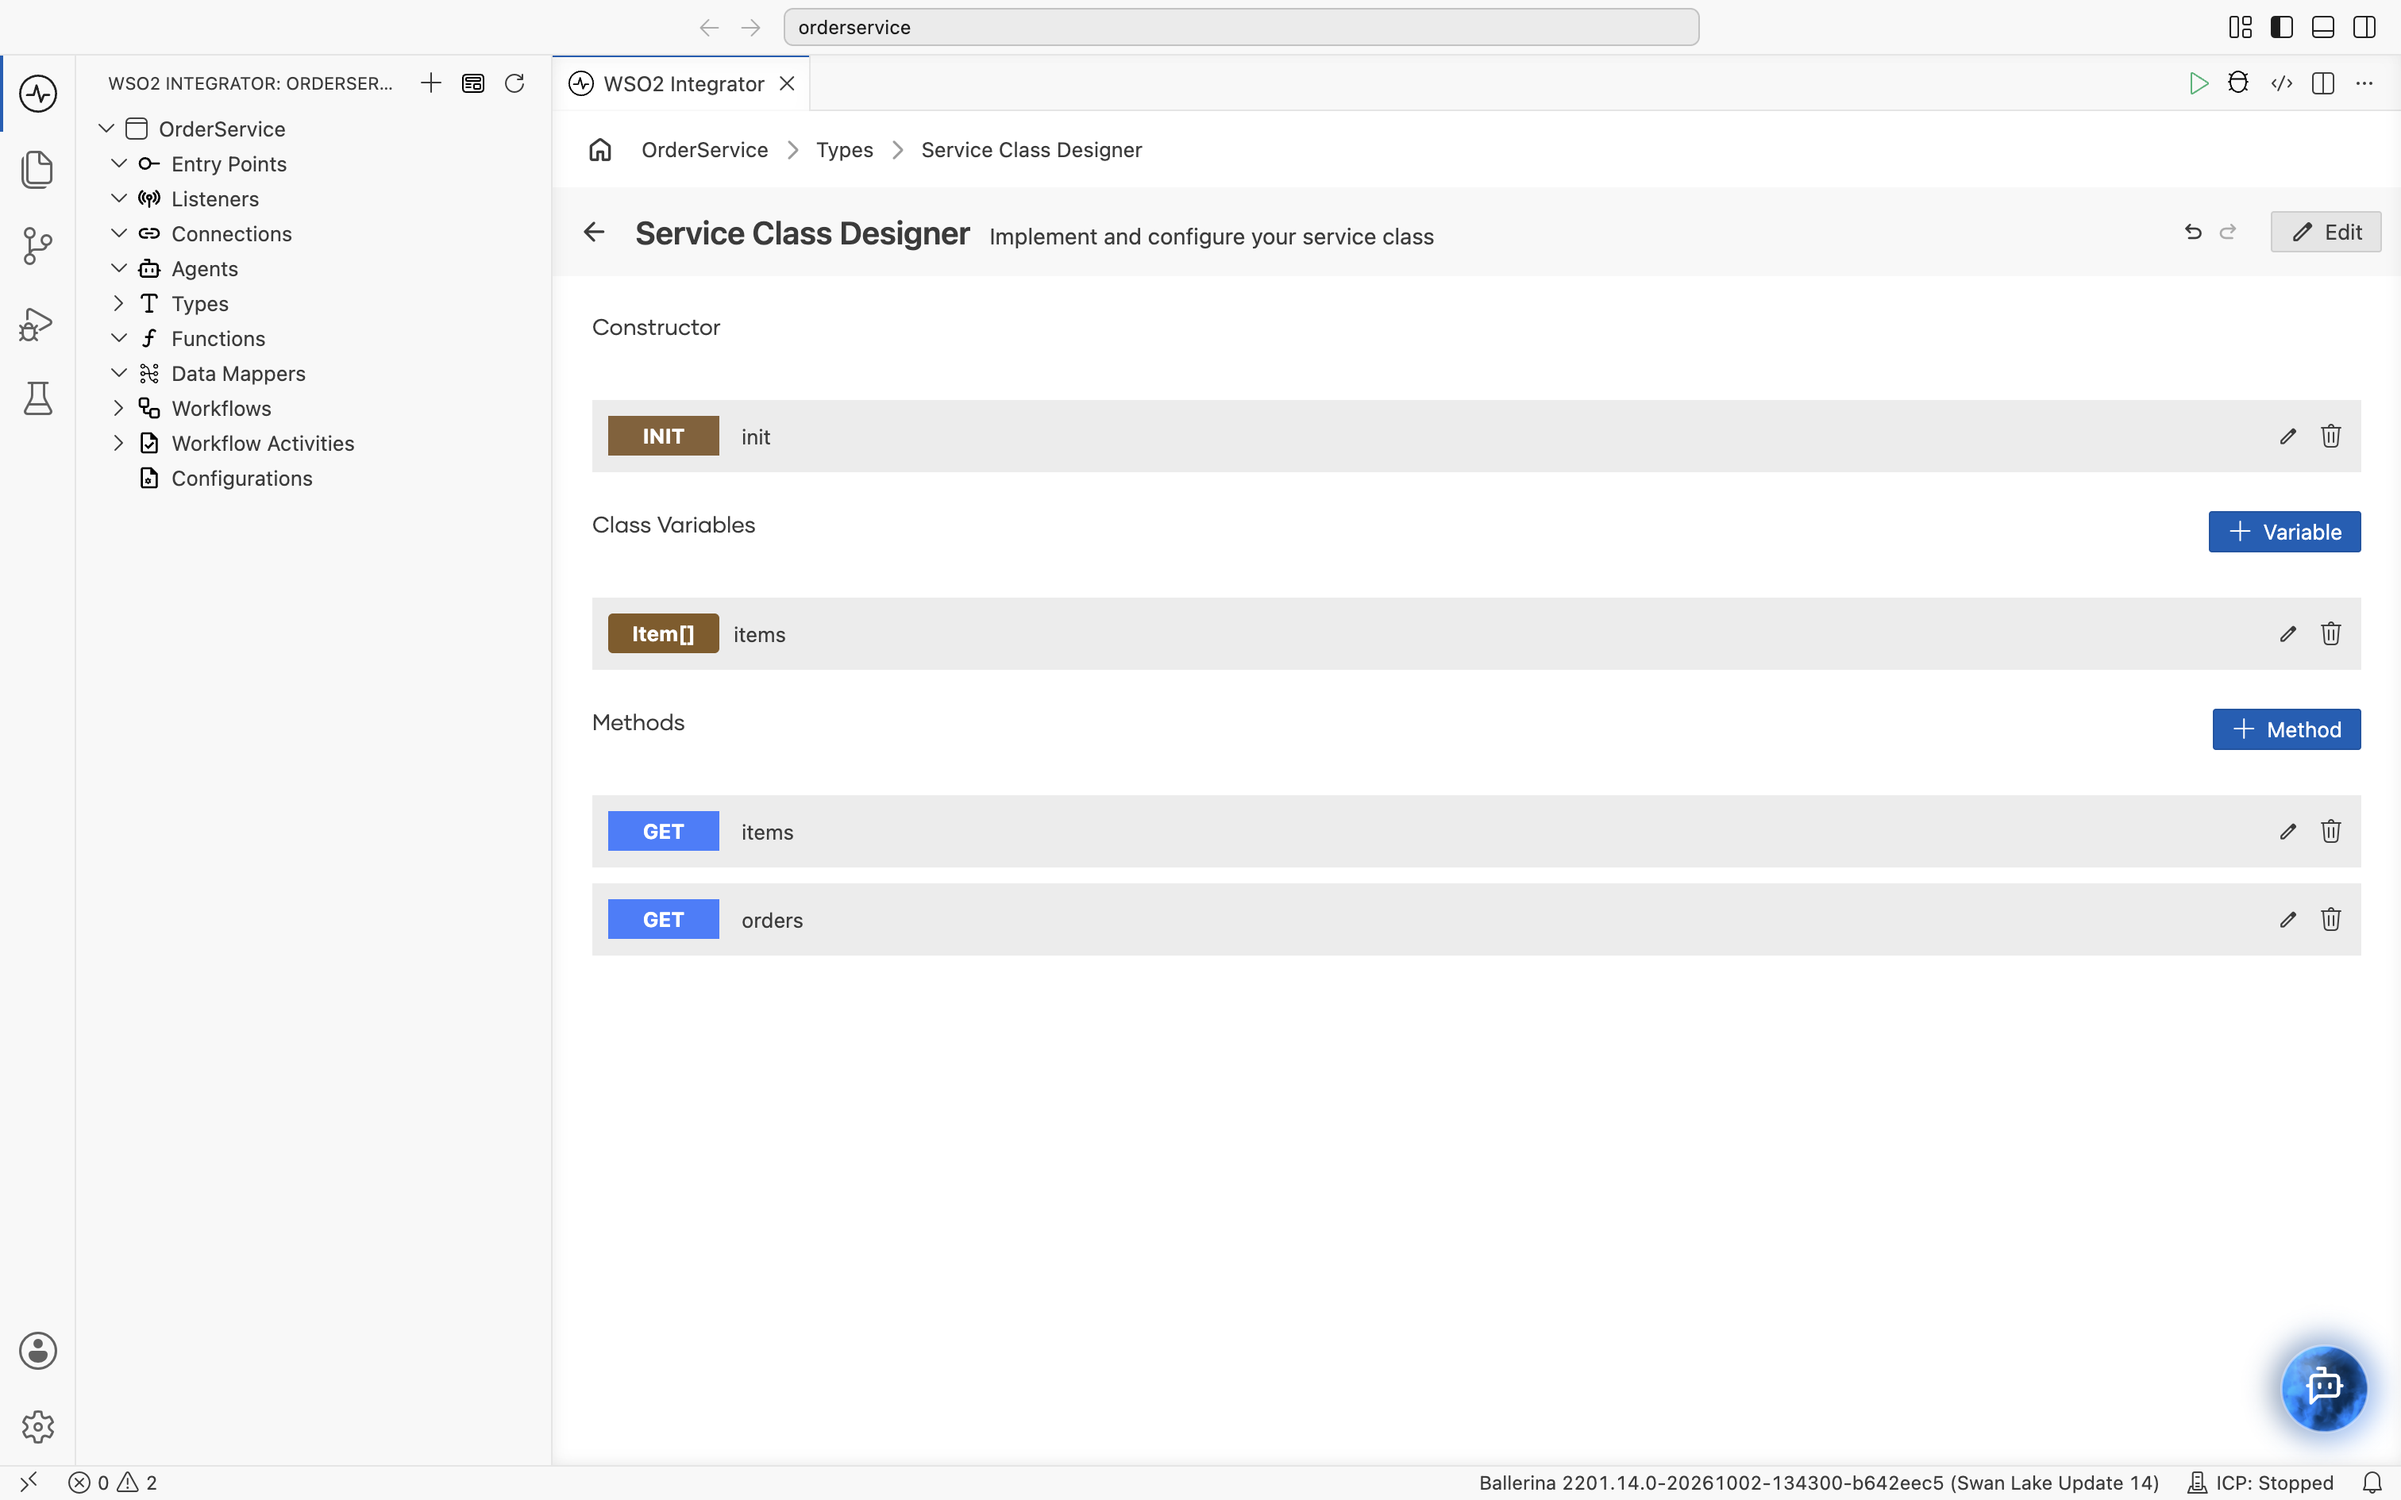
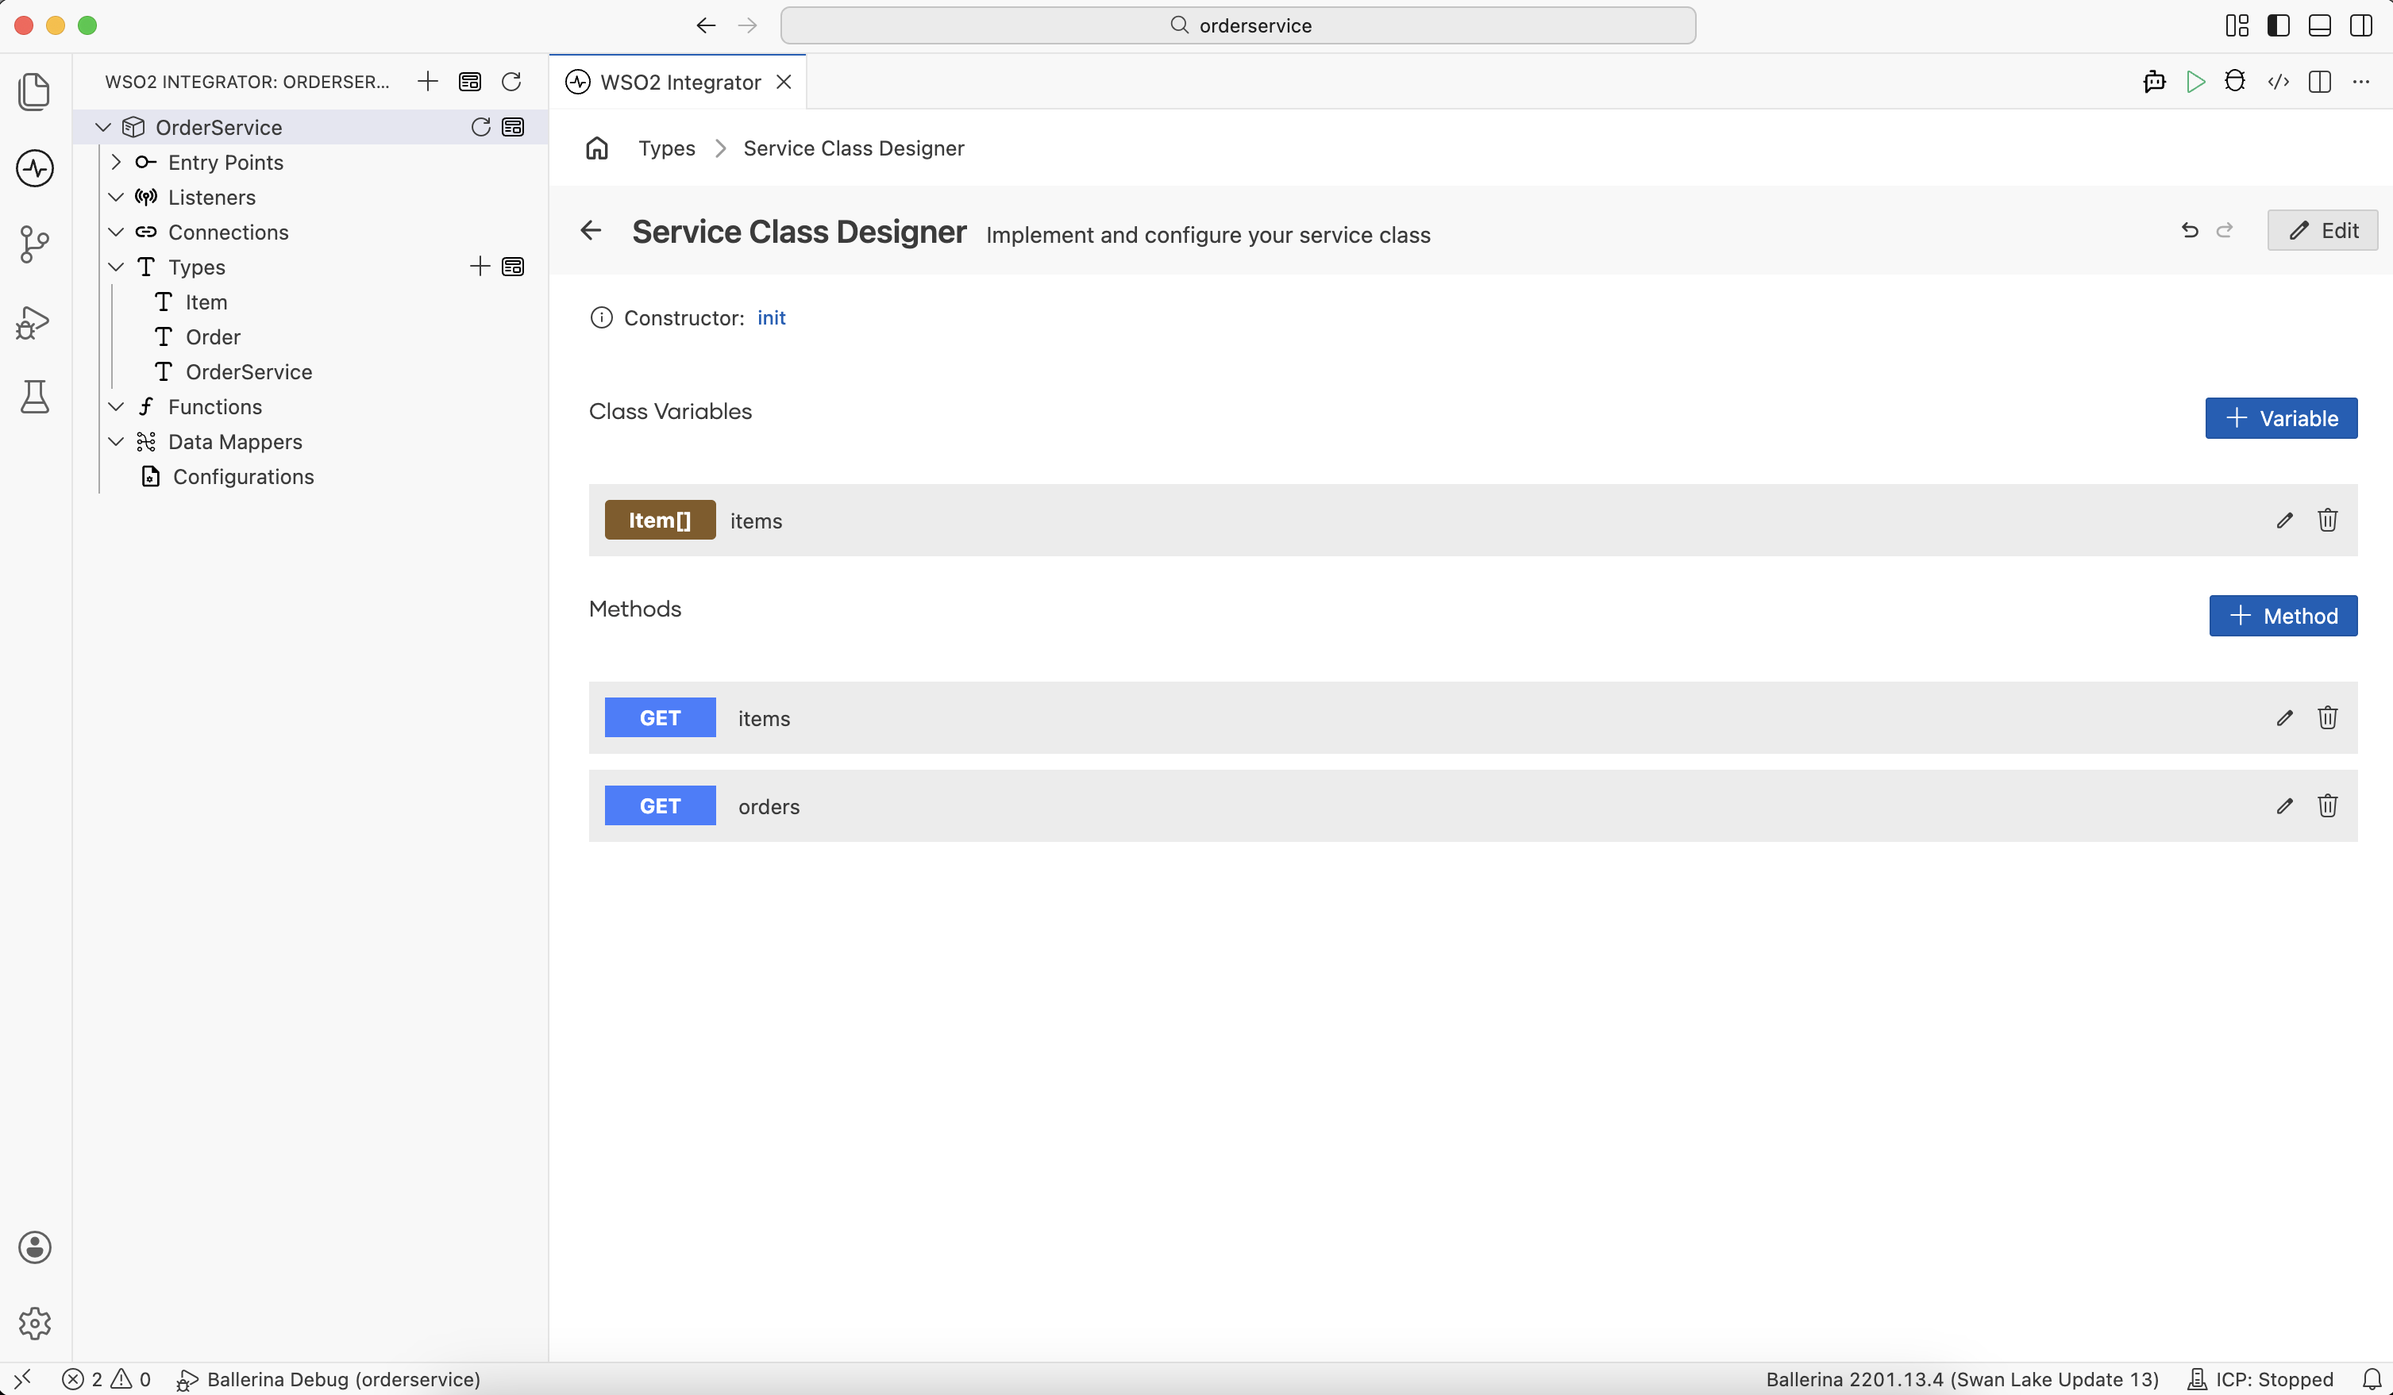
Keep 5.0.0 Types screenshots and add 5.1 versions with -v5.1 suffix
Restore the original step-1.png and service-class-designer.png so they
remain available for 5.0.0 docs, add the 5.1.0 screenshots as
*-v5.1.png, and point the Types page at the new files.

diff --git a/en/docs/develop-and-test/integration-artifacts/supportive-artifacts/types.md b/en/docs/develop-and-test/integration-artifacts/supportive-artifacts/types.md
@@ -28,8 +28,8 @@ The visual designer exposes five type kinds: **Record**, **Enum**, **Service Cla
    <ThemedImage
        alt="WSO2 Integrator sidebar showing the project structure with Types listed"
        sources={{
-           light: useBaseUrl('/img/develop/integration-artifacts/supporting/types/step-1.png'),
-           dark: useBaseUrl('/img/develop/integration-artifacts/supporting/types/step-1.png'),
+           light: useBaseUrl('/img/develop/integration-artifacts/supporting/types/step-1-v5.1.png'),
+           dark: useBaseUrl('/img/develop/integration-artifacts/supporting/types/step-1-v5.1.png'),
        }}
    />
 
@@ -268,8 +268,8 @@ Use the pencil and trash icons next to **init** in the **Constructor** section t
 <ThemedImage
     alt="Service Class Designer showing Constructor, Class Variables, and Methods sections"
     sources={{
-        light: useBaseUrl('/img/develop/integration-artifacts/supporting/types/service-class-designer.png'),
-        dark: useBaseUrl('/img/develop/integration-artifacts/supporting/types/service-class-designer.png'),
+        light: useBaseUrl('/img/develop/integration-artifacts/supporting/types/service-class-designer-v5.1.png'),
+        dark: useBaseUrl('/img/develop/integration-artifacts/supporting/types/service-class-designer-v5.1.png'),
     }}
 />
 
